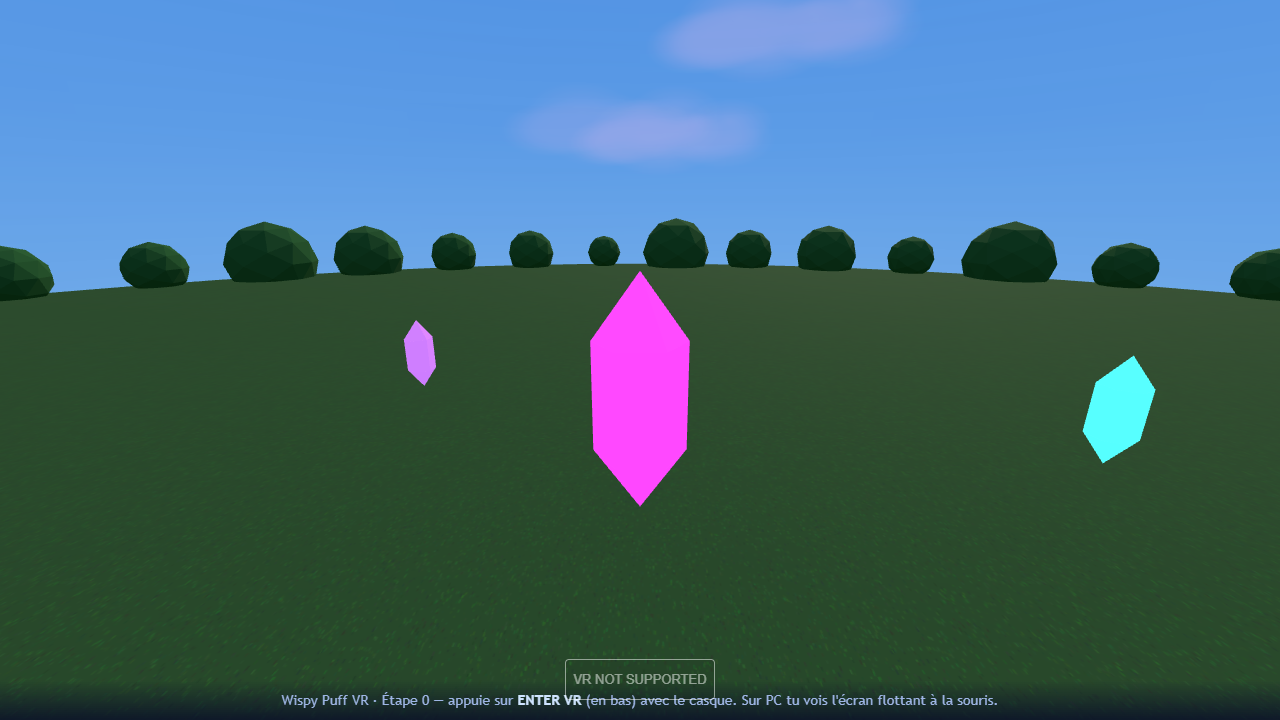
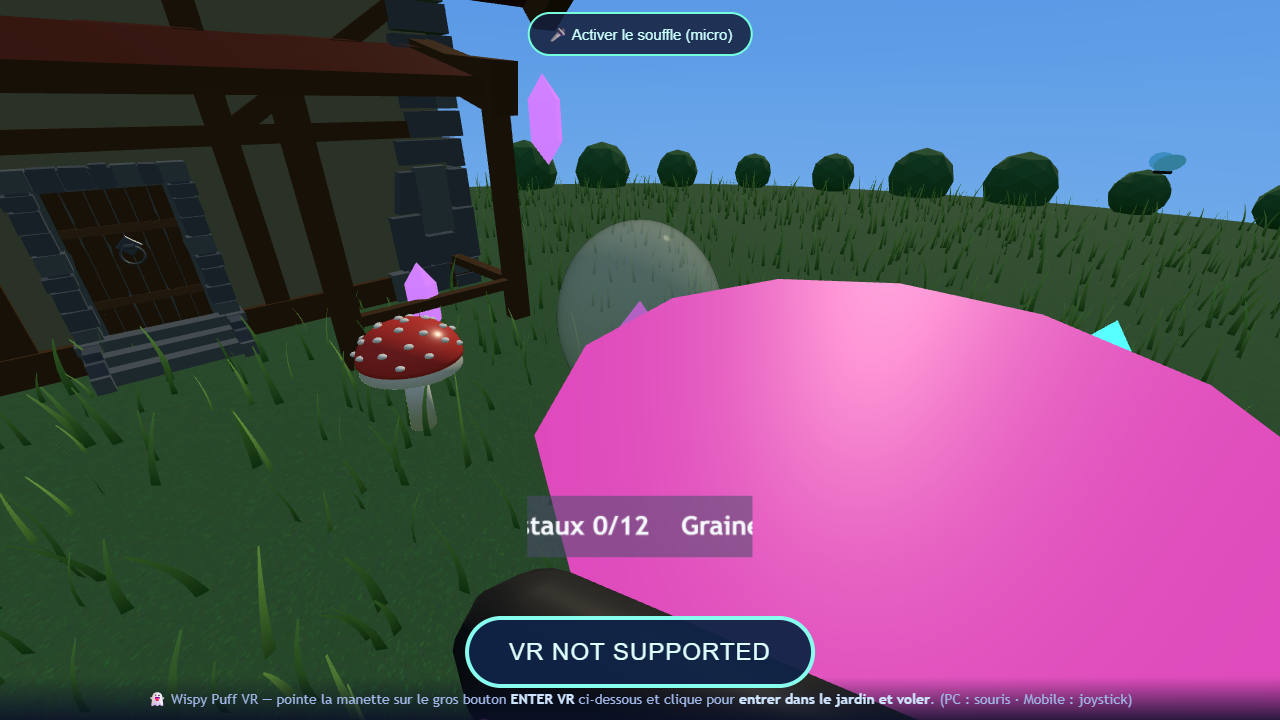
Fond : vraies montagnes Meshy a glaciers (2 anneaux) + dirigeable pub BURGO qui orbite
- montagne1/2/3.glb + dirigeable.glb optimises (15Mo -> 1.8Mo, simplify+webp)
- anneau de montagnes clonees autour de la ville (fallback cones conserve)
- dirigeable oriente dans le sens de la marche, leger tangage, rayon borne
- hooks test: scene + getBlimp

diff --git a/builder.html b/builder.html
@@ -557,11 +557,28 @@ function refresh() { document.getElementById('count').textContent = grid.size + 
 
 // ---------- Décor de fond : collines cartoon à l'horizon (comble les bords vides) ----------
 const bgGroup = new THREE.Group(); scene.add(bgGroup);
-let hillsOn = true, bgSig = '';
-const MT_CONE = new THREE.ConeGeometry(1, 1, 6);   // cône unité (base en bas, sommet en haut) → montagne facettée cartoon
-const SHARED_GEO = new Set([MT_CONE]);
-function hillMat(c) { return new THREE.MeshBasicMaterial({ color: c }); }   // unlit + fog auto → les montagnes lointaines se fondent dans le ciel
-function clearBg() { while (bgGroup.children.length) { const m = bgGroup.children.pop(); if (m.geometry && !SHARED_GEO.has(m.geometry)) m.geometry.dispose(); if (m.material) m.material.dispose(); } }
+let hillsOn = true, bgSig = '', bgExt = 14;
+const MT_CONE = new THREE.ConeGeometry(1, 1, 6);   // cône unité (fallback si les modèles ne sont pas encore chargés)
+const SHARED = new Set([MT_CONE]);   // géométries + matériaux partagés (templates montagnes) → ne jamais disposer
+function hillMat(c) { return new THREE.MeshBasicMaterial({ color: c }); }   // unlit + fog auto → le lointain se fond dans le ciel
+function clearBg() { while (bgGroup.children.length) { const m = bgGroup.children.pop(); if (m.geometry && !SHARED.has(m.geometry)) m.geometry.dispose(); if (m.material && !SHARED.has(m.material)) m.material.dispose(); } }
+// modèles de montagnes Meshy (chargés une fois, clonés tout autour de la ville)
+const MT = {}; let mtReady = false;
+for (const nm of ['montagne1', 'montagne2']) {
+  new GLTFLoader().load('models/' + nm + '.glb', (g) => {
+    const root = g.scene; unlit(root);
+    root.traverse(o => { if (o.isMesh) { SHARED.add(o.geometry); (Array.isArray(o.material) ? o.material : [o.material]).forEach(mm => SHARED.add(mm)); } });
+    const box = new THREE.Box3().setFromObject(root); const sz = new THREE.Vector3(); box.getSize(sz);
+    MT[nm] = { scene: root, h: sz.y || 1, minY: box.min.y };
+    mtReady = true; bgSig = ''; buildBg();   // reconstruit l'anneau avec les vraies montagnes
+  });
+}
+function placeMountain(nm, x, z, H, rotY) {
+  const t = MT[nm]; if (!t) return;
+  const c = t.scene.clone(true); const s = H / t.h;
+  c.scale.setScalar(s); c.position.set(x, -t.minY * s - 2, z); c.rotation.y = rotY;   // base posée au sol, légèrement enfoncée
+  bgGroup.add(c);
+}
 function makeMountain(x, z, rock, snow, R, H, rotY) {
   const zf = 0.8 + Math.random() * 0.4;   // légère irrégularité de base (même pour roche + neige → cime alignée)
   // masse rocheuse
@@ -587,38 +604,35 @@ function buildBg() {
   const ext = Math.max(maxX - minX, maxZ - minZ) / 2 + T;   // demi-taille + une tuile de marge
   const sig = Math.round(cx / 7) + '|' + Math.round(cz / 7) + '|' + Math.round(ext / 7);
   if (sig === bgSig) return;   // rien de neuf → on ne reconstruit pas
-  bgSig = sig; clearBg();
+  bgSig = sig; clearBg(); bgExt = ext;
   bgGroup.position.set(cx, 0, cz);
   const R = ext + 34;
   // grand sol vert circulaire → supprime le vide bleu quadrillé autour de la ville
   const ground = new THREE.Mesh(new THREE.CircleGeometry(Math.max(R + 190, 380), 64), hillMat(0x86c76a));
   ground.rotation.x = -Math.PI / 2; ground.position.y = -0.06; bgGroup.add(ground);
-  // petites collines vertes juste au pied (transition douce ville → montagnes)
-  const foot = [
-    { r: R - 10, col: 0x7cbf5e, n: 22, h: [5, 10], s: [8, 13] },
-    { r: R - 2, col: 0x8fce6b, n: 18, h: [7, 13], s: [10, 15] },
-  ];
-  for (const rg of foot) {
-    for (let i = 0; i < rg.n; i++) {
-      const a = (i / rg.n) * Math.PI * 2 + (Math.random() - 0.5) * 0.18;
-      const rr = rg.r + (Math.random() - 0.5) * 14;
-      const sx = rg.s[0] + Math.random() * (rg.s[1] - rg.s[0]);
-      const hy = rg.h[0] + Math.random() * (rg.h[1] - rg.h[0]);
-      const m = new THREE.Mesh(MT_CONE, hillMat(rg.col));   // colline = cône très écrasé et large
-      m.position.set(Math.cos(a) * rr, hy / 2 - 3, Math.sin(a) * rr);
-      m.scale.set(sx * 1.6, hy, sx * 1.6 * (0.8 + Math.random() * 0.4));
-      m.rotation.y = Math.random() * Math.PI;
-      bgGroup.add(m);
+  if (mtReady) {
+    // vraies montagnes Meshy à glaciers, en 2 anneaux (le lointain bleuté par le brouillard)
+    const N1 = 13;
+    for (let i = 0; i < N1; i++) {
+      const a = (i / N1) * Math.PI * 2 + (Math.random() - 0.5) * 0.20;
+      const rr = R + 20 + (Math.random() - 0.5) * 20;
+      const H = 40 + Math.random() * 22;
+      placeMountain(i % 2 ? 'montagne2' : 'montagne1', Math.cos(a) * rr, Math.sin(a) * rr, H, Math.random() * Math.PI * 2);
     }
-  }
-  // 3 chaînes de montagnes à glaciers, de plus en plus hautes + bleutées (profondeur atmosphérique)
-  const ranges = [
-    { r: R + 22, rock: 0x7f8792, snow: 0xffffff, n: 20, h: [26, 46], s: [12, 20] },
-    { r: R + 58, rock: 0x93a0b6, snow: 0xf3f8ff, n: 18, h: [36, 60], s: [16, 26] },
-    { r: R + 102, rock: 0xb2c0d8, snow: 0xffffff, n: 16, h: [48, 76], s: [20, 32] },
-  ];
-  for (const rg of ranges) {
-    for (let i = 0; i < rg.n; i++) {
+    const N2 = 11;
+    for (let i = 0; i < N2; i++) {
+      const a = ((i + 0.5) / N2) * Math.PI * 2 + (Math.random() - 0.5) * 0.20;
+      const rr = R + 70 + (Math.random() - 0.5) * 26;
+      const H = 56 + Math.random() * 28;
+      placeMountain(i % 2 ? 'montagne1' : 'montagne2', Math.cos(a) * rr, Math.sin(a) * rr, H, Math.random() * Math.PI * 2);
+    }
+  } else {
+    // fallback tant que les modèles ne sont pas chargés : cônes codés
+    const ranges = [
+      { r: R + 22, rock: 0x7f8792, snow: 0xffffff, n: 16, h: [26, 46], s: [12, 20] },
+      { r: R + 70, rock: 0x9aa7bd, snow: 0xffffff, n: 14, h: [40, 70], s: [16, 28] },
+    ];
+    for (const rg of ranges) for (let i = 0; i < rg.n; i++) {
       const a = (i / rg.n) * Math.PI * 2 + (Math.random() - 0.5) * 0.16;
       const rr = rg.r + (Math.random() - 0.5) * 22;
       const sx = rg.s[0] + Math.random() * (rg.s[1] - rg.s[0]);
@@ -629,6 +643,16 @@ function buildBg() {
 }
 document.getElementById('hills').onclick = () => { hillsOn = !hillsOn; const b = document.getElementById('hills'); b.style.background = hillsOn ? '#7cbf5e' : ''; b.style.color = hillsOn ? '#023' : '#fff'; bgSig = ''; buildBg(); };
 document.getElementById('hills').style.background = '#7cbf5e'; document.getElementById('hills').style.color = '#023';
+
+// ---------- Dirigeable pub « BURGO » qui orbite lentement au-dessus de la ville ----------
+let blimp = null, blimpA = 0;
+new GLTFLoader().load('models/dirigeable.glb', (g) => {
+  const root = g.scene; unlit(root);
+  const box = new THREE.Box3().setFromObject(root); const sz = new THREE.Vector3(); box.getSize(sz);
+  const s = 30 / Math.max(sz.x, sz.y, sz.z); root.scale.setScalar(s);
+  const c = new THREE.Vector3(); box.getCenter(c); root.position.set(-c.x * s, -c.y * s, -c.z * s);   // pivot au centre du ballon
+  blimp = new THREE.Group(); blimp.add(root); scene.add(blimp);
+});
 
 highlight(); refresh();
 
@@ -837,7 +861,7 @@ addEventListener('keydown', (e) => {   // RUNNER : ← → = changer de voie, Es
 window.__builder = { placeTile, placeObject, refresh, cam3, ctr3, OBJ_ASSET, rebuildTrains, TRAIN_ASSET, getTrains: () => trains, setTrain: (t) => { curTrain = t; rebuildTrains(); }, togglePlay,
   placeHalfXZ: (x, z, type, rot) => { const sx = Math.round(x / HG) * HG, sz = Math.round(z / HG) * HG, k = sx + '_' + sz; const m = ASSET[type].clone(true); m.position.set(sx, 0, sz); m.rotation.y = (rot || 0) * Math.PI / 2; worldGroup.add(m); halfTiles.set(k, { type, x: sx, z: sz, rot: rot || 0, mesh: m }); },
   barrierInfo: () => ({ armLoaded: !!BARRIER_ARM, count: barriers.length, sample: barriers[0] ? { px: barriers[0].px, pz: barriers[0].pz, angle: +barriers[0].angle.toFixed(2), gpos: barriers[0].group.position.toArray().map(v => +v.toFixed(1)) } : null }),
-  clearSilent: () => { clearAllSilent(); scheduleTrains(); refresh(); } };
+  clearSilent: () => { clearAllSilent(); scheduleTrains(); refresh(); }, scene, getBlimp: () => blimp };
 
 // ---------- Boucle ----------
 let _lt = 0;
@@ -845,6 +869,12 @@ renderer.setAnimationLoop((t) => {
   const dt = _lt ? Math.min(0.05, (t - _lt) / 1000) : 0.016; _lt = t;
   LAKE_RIPPLE.offset.x += dt * 0.03; LAKE_RIPPLE.offset.y += dt * 0.022;   // ondulations de l'eau des lacs
   for (const e of objects.values()) if (e.ferris) for (const p of e.ferris) p.rotation.z += dt * 0.35;   // grande roue qui tourne
+  if (blimp) {   // le dirigeable orbite au-dessus de la ville + léger tangage
+    blimpA += dt * 0.06;
+    const rad = Math.min(72, Math.max(30, bgExt * 0.5));
+    blimp.position.set(bgGroup.position.x + Math.cos(blimpA) * rad, 44 + Math.sin(blimpA * 3) * 1.6, bgGroup.position.z + Math.sin(blimpA) * rad);
+    blimp.rotation.y = -blimpA + Math.PI / 2;   // nez orienté dans le sens de la marche
+  }
   for (const tr of trains) { tr.p += tr.speed * dt; if (tr.p > tr.max + tr.len) tr.p = tr.min; if (tr.axis === 'x') tr.group.position.x = tr.p; else tr.group.position.z = tr.p; }   // le train roule le long de sa voie (X ou Z) et boucle
   for (const bar of barriers) {   // barrière baissée si un train approche du passage
     let near = false;

diff --git a/dev/decimate.py b/dev/decimate.py
@@ -1,0 +1,16 @@
+import bpy, sys
+argv = sys.argv
+glb = argv[argv.index("--")+1]; out = argv[argv.index("--")+2]; ratio = float(argv[argv.index("--")+3])
+bpy.ops.wm.read_factory_settings(use_empty=True)
+bpy.ops.import_scene.gltf(filepath=glb)
+meshes = [o for o in bpy.context.scene.objects if o.type=='MESH']
+bpy.context.view_layer.objects.active = meshes[0]
+for o in meshes: o.select_set(True)
+if len(meshes) > 1: bpy.ops.object.join()
+obj = bpy.context.view_layer.objects.active
+before = len(obj.data.polygons)
+dec = obj.modifiers.new("d", 'DECIMATE'); dec.ratio = ratio
+bpy.ops.object.modifier_apply(modifier="d")
+after = len(obj.data.polygons)
+bpy.ops.export_scene.gltf(filepath=out, export_format='GLB')
+print("DECIMATED tris:", before, "->", after)